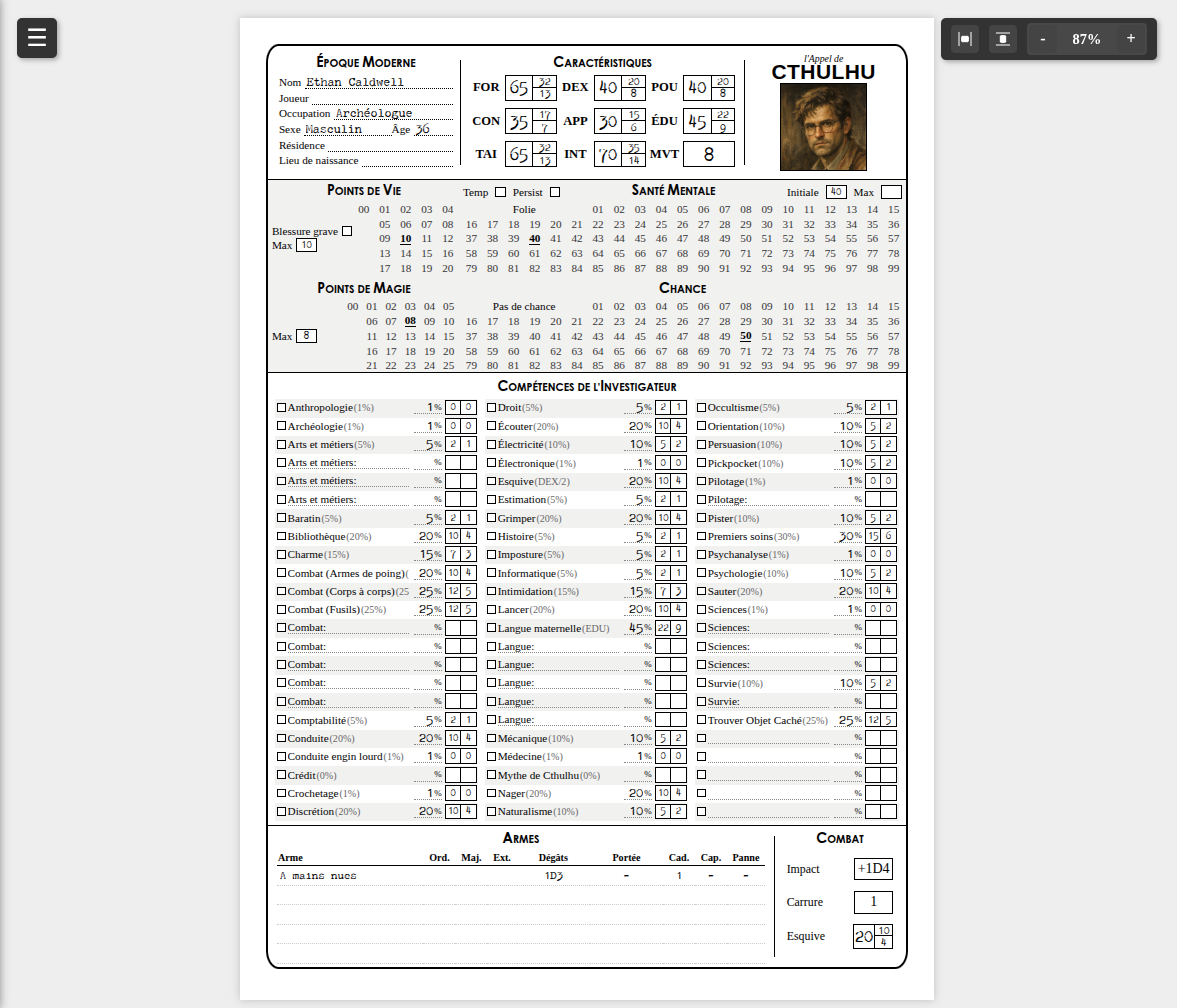
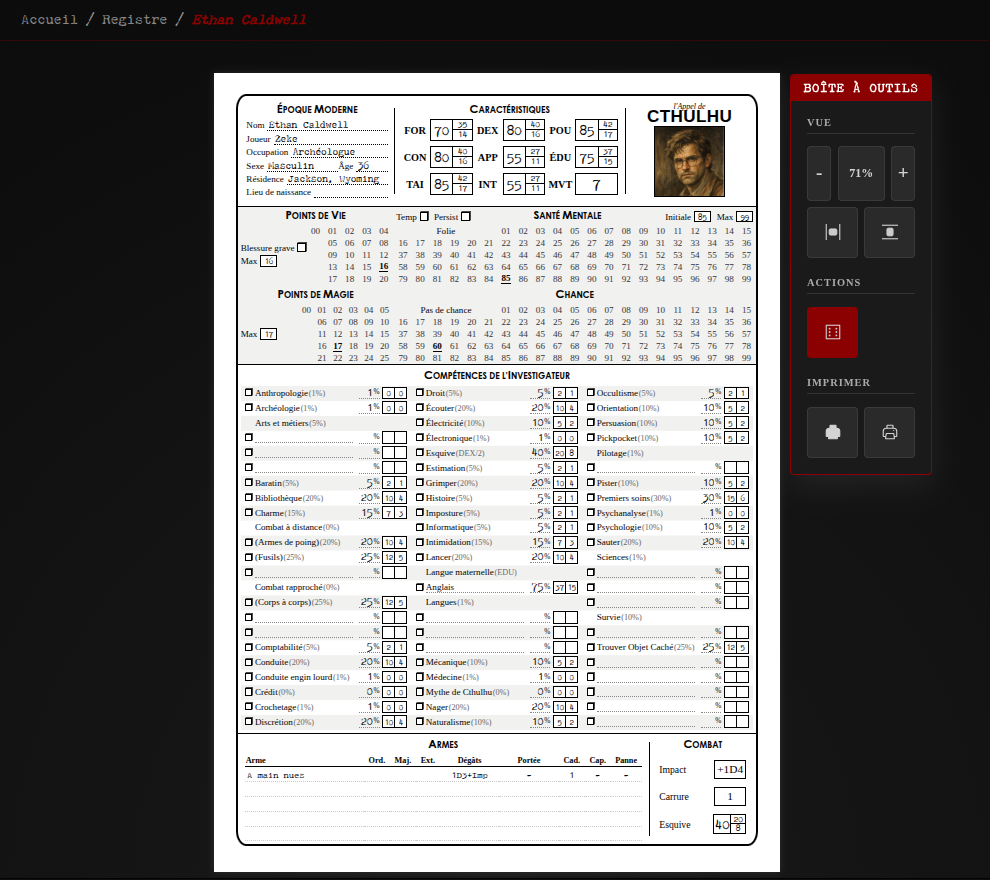
style: add Registry View screenshot to README for improved visual documentation

diff --git a/README.md b/README.md
@@ -15,6 +15,10 @@ Arkham Registry is a comprehensive tool designed for Keepers and Players to mana
 
 ## Screenshots
 
+### Registry View
+
+![Registry View](docs/cthulhu-editor-registry.png)
+
 ### Desktop View
 
 ![Desktop View](docs/cthulhu-editor-desktop.png)
